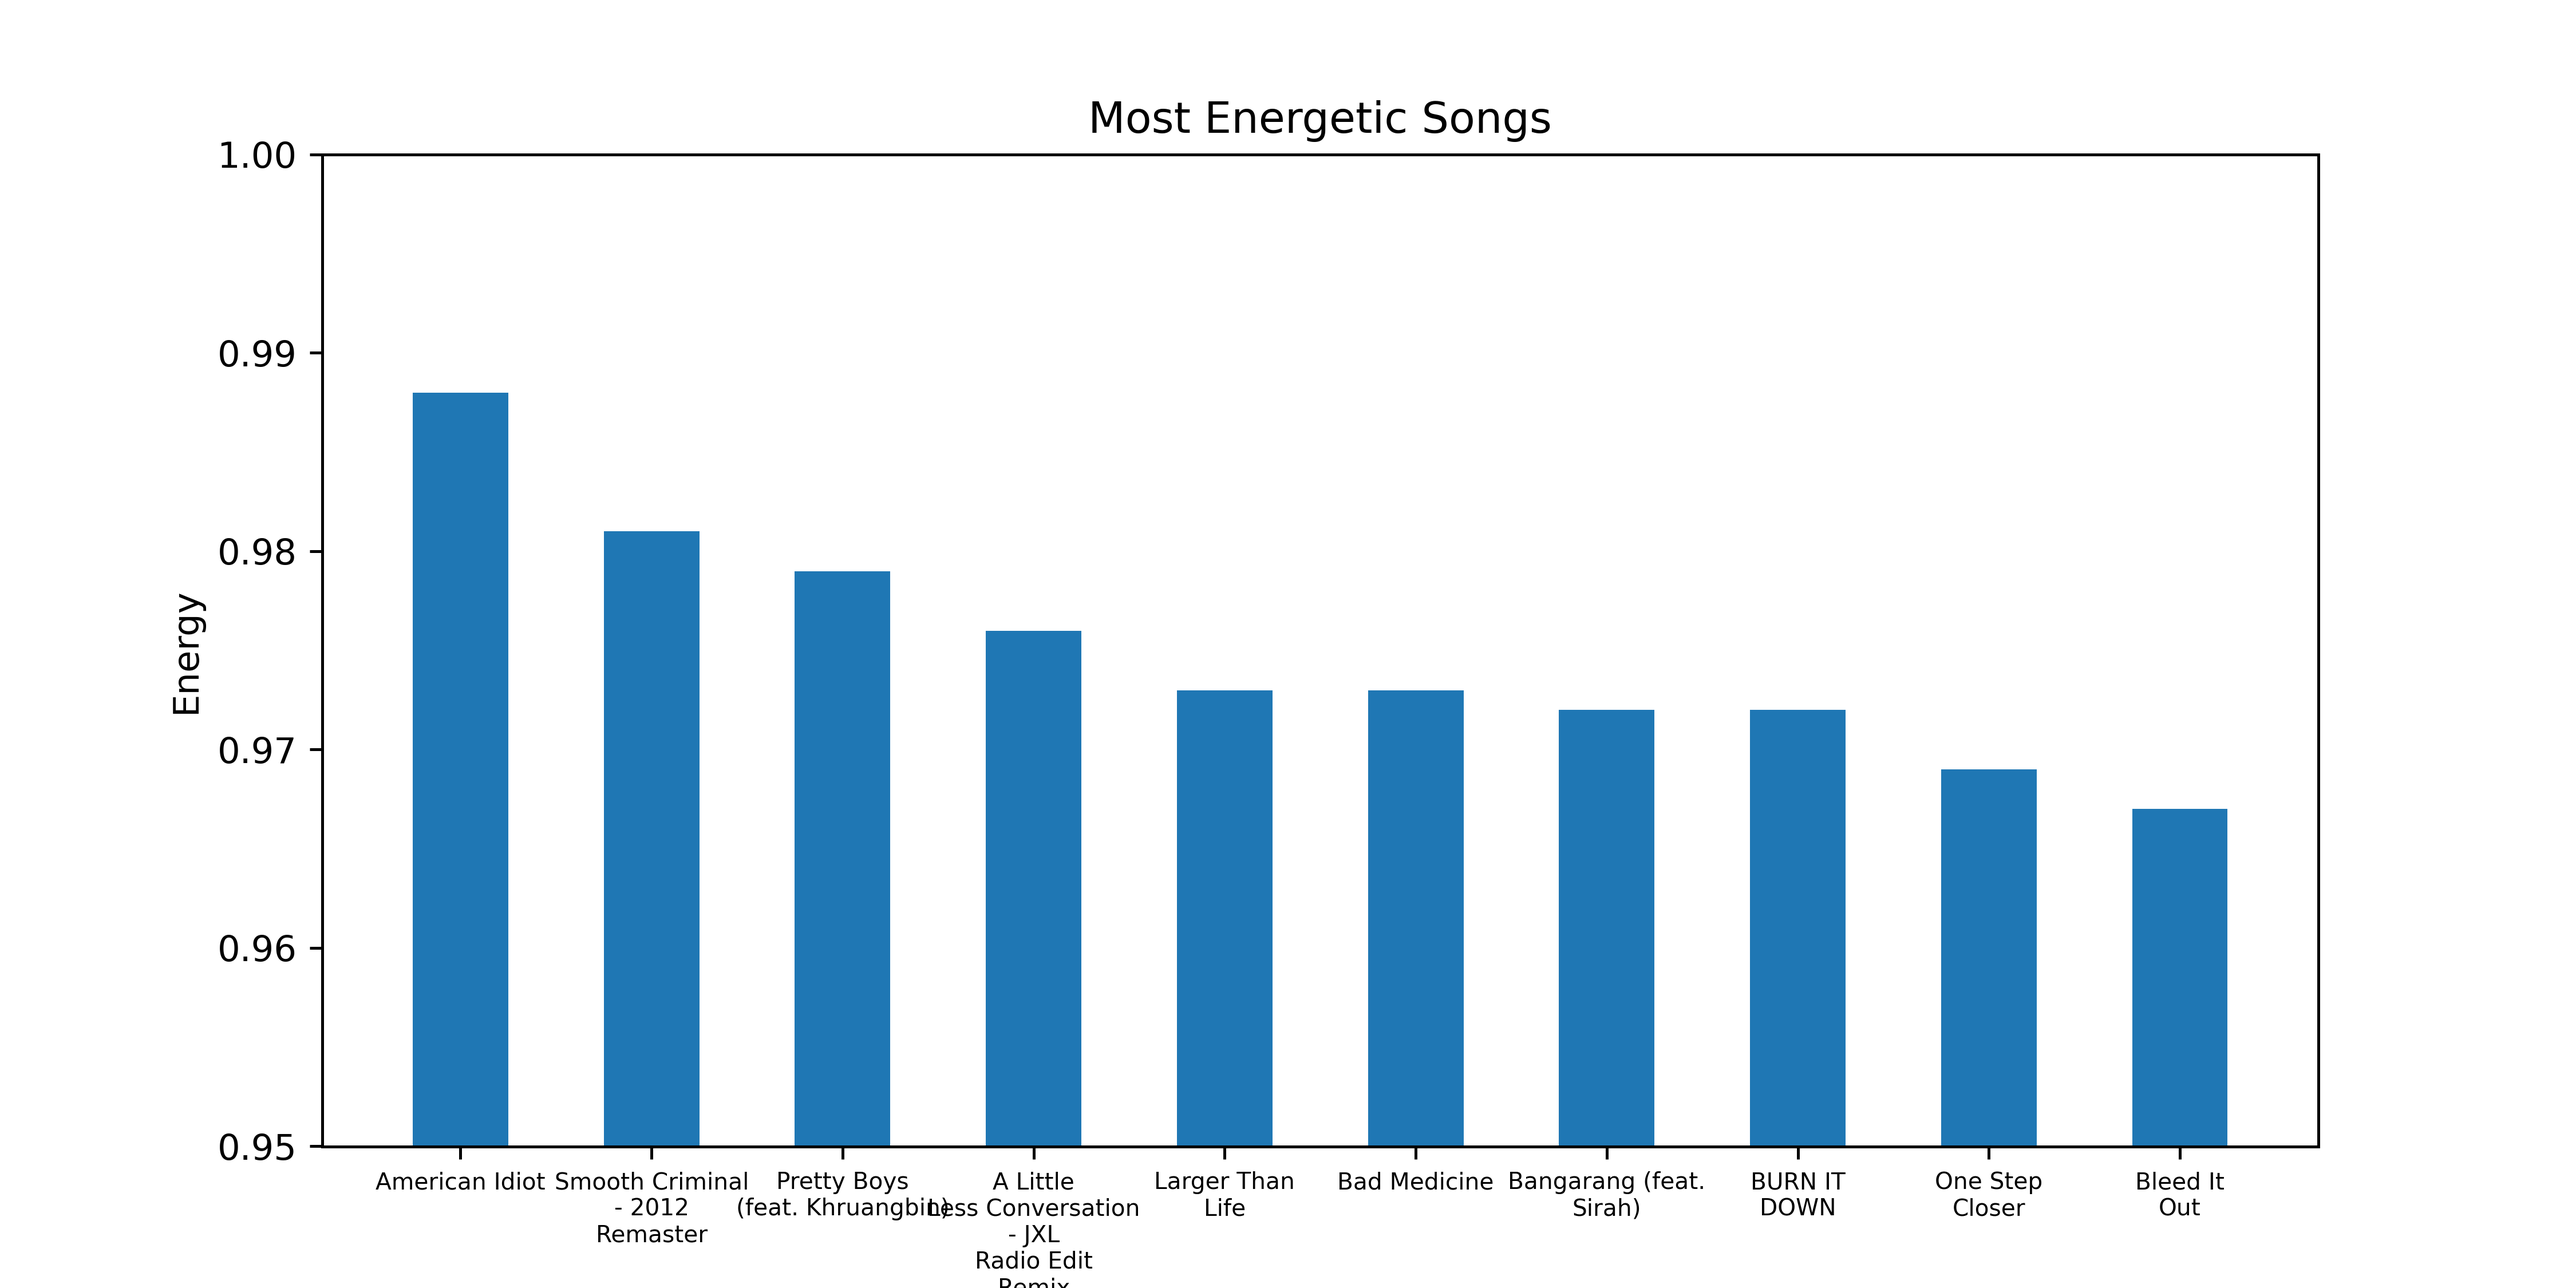
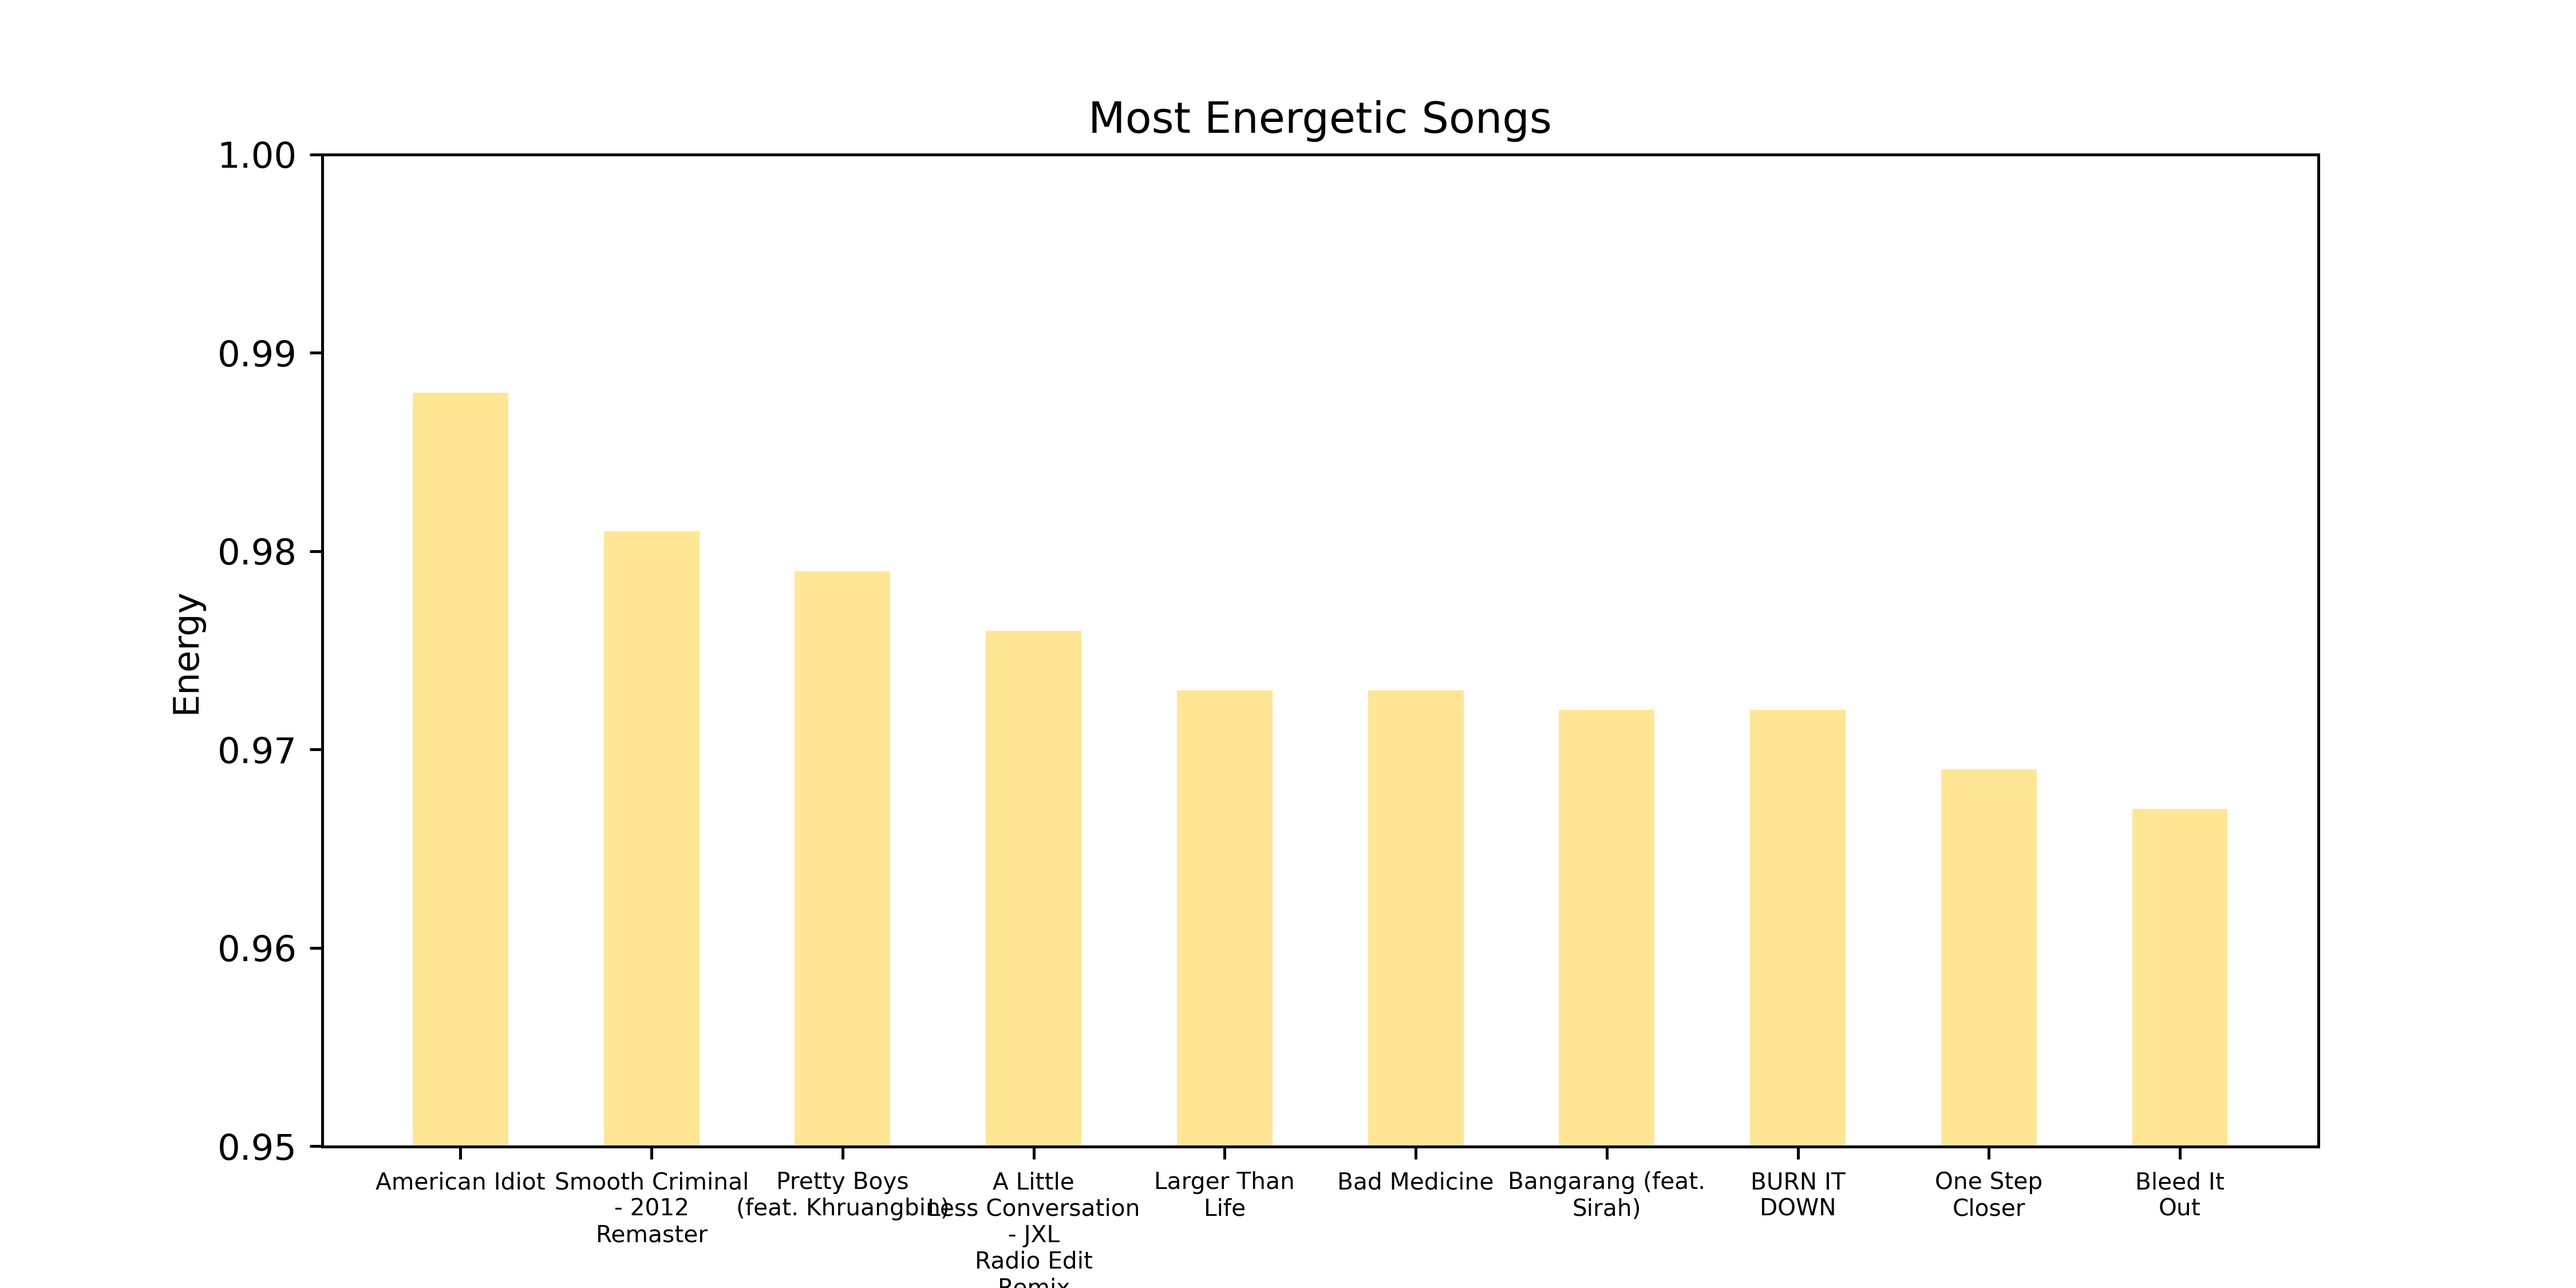
completed energy.py

diff --git a/energy.py b/energy.py
@@ -23,10 +23,9 @@ py.close()
 
 x1 = range(5, 105, 10)
 py.figure(dpi=450, figsize=(10, 5))
-py.bar(x1, df_sorted_energy.energy.iloc[0:10], width=5)
+py.bar(x1, df_sorted_energy.energy.iloc[0:10], width=5, color='#FFE695')
 py.axis(ymin=0.95, ymax=1)
 names = list(df_sorted_energy.name.iloc[0:10])
-# names_new = [re.sub("(.{10})", "\\1\n", label, 0, re.DOTALL) for label in names]
 names_new = []
 for name in names:
     words = name.split(" ")
@@ -37,3 +36,16 @@ py.xticks(x1, names_new, fontsize=6.5)
 py.title("Most Energetic Songs")
 py.ylabel("Energy")
 py.savefig('energy_bar_top10')
+py.grid(axis='y')
+py.close()
+
+py.figure(dpi=450, figsize=(7, 4))
+py.bar(x1, mean_df_sorted_energy.energy.iloc[0:10], width=5, color='#FF005D')
+artists = mean_df_sorted_energy.iloc[0:10, 1:2].index
+py.xticks(x1, artists, fontsize=6.5)
+py.title("Most Energetic Artists")
+py.ylabel("Energy")
+py.axis(ymin=0.75, ymax=0.9)
+py.grid(axis='y')
+py.gca().yaxis.set_minor_locator(AutoMinorLocator())
+py.savefig('energy_bar_artists_top10')
